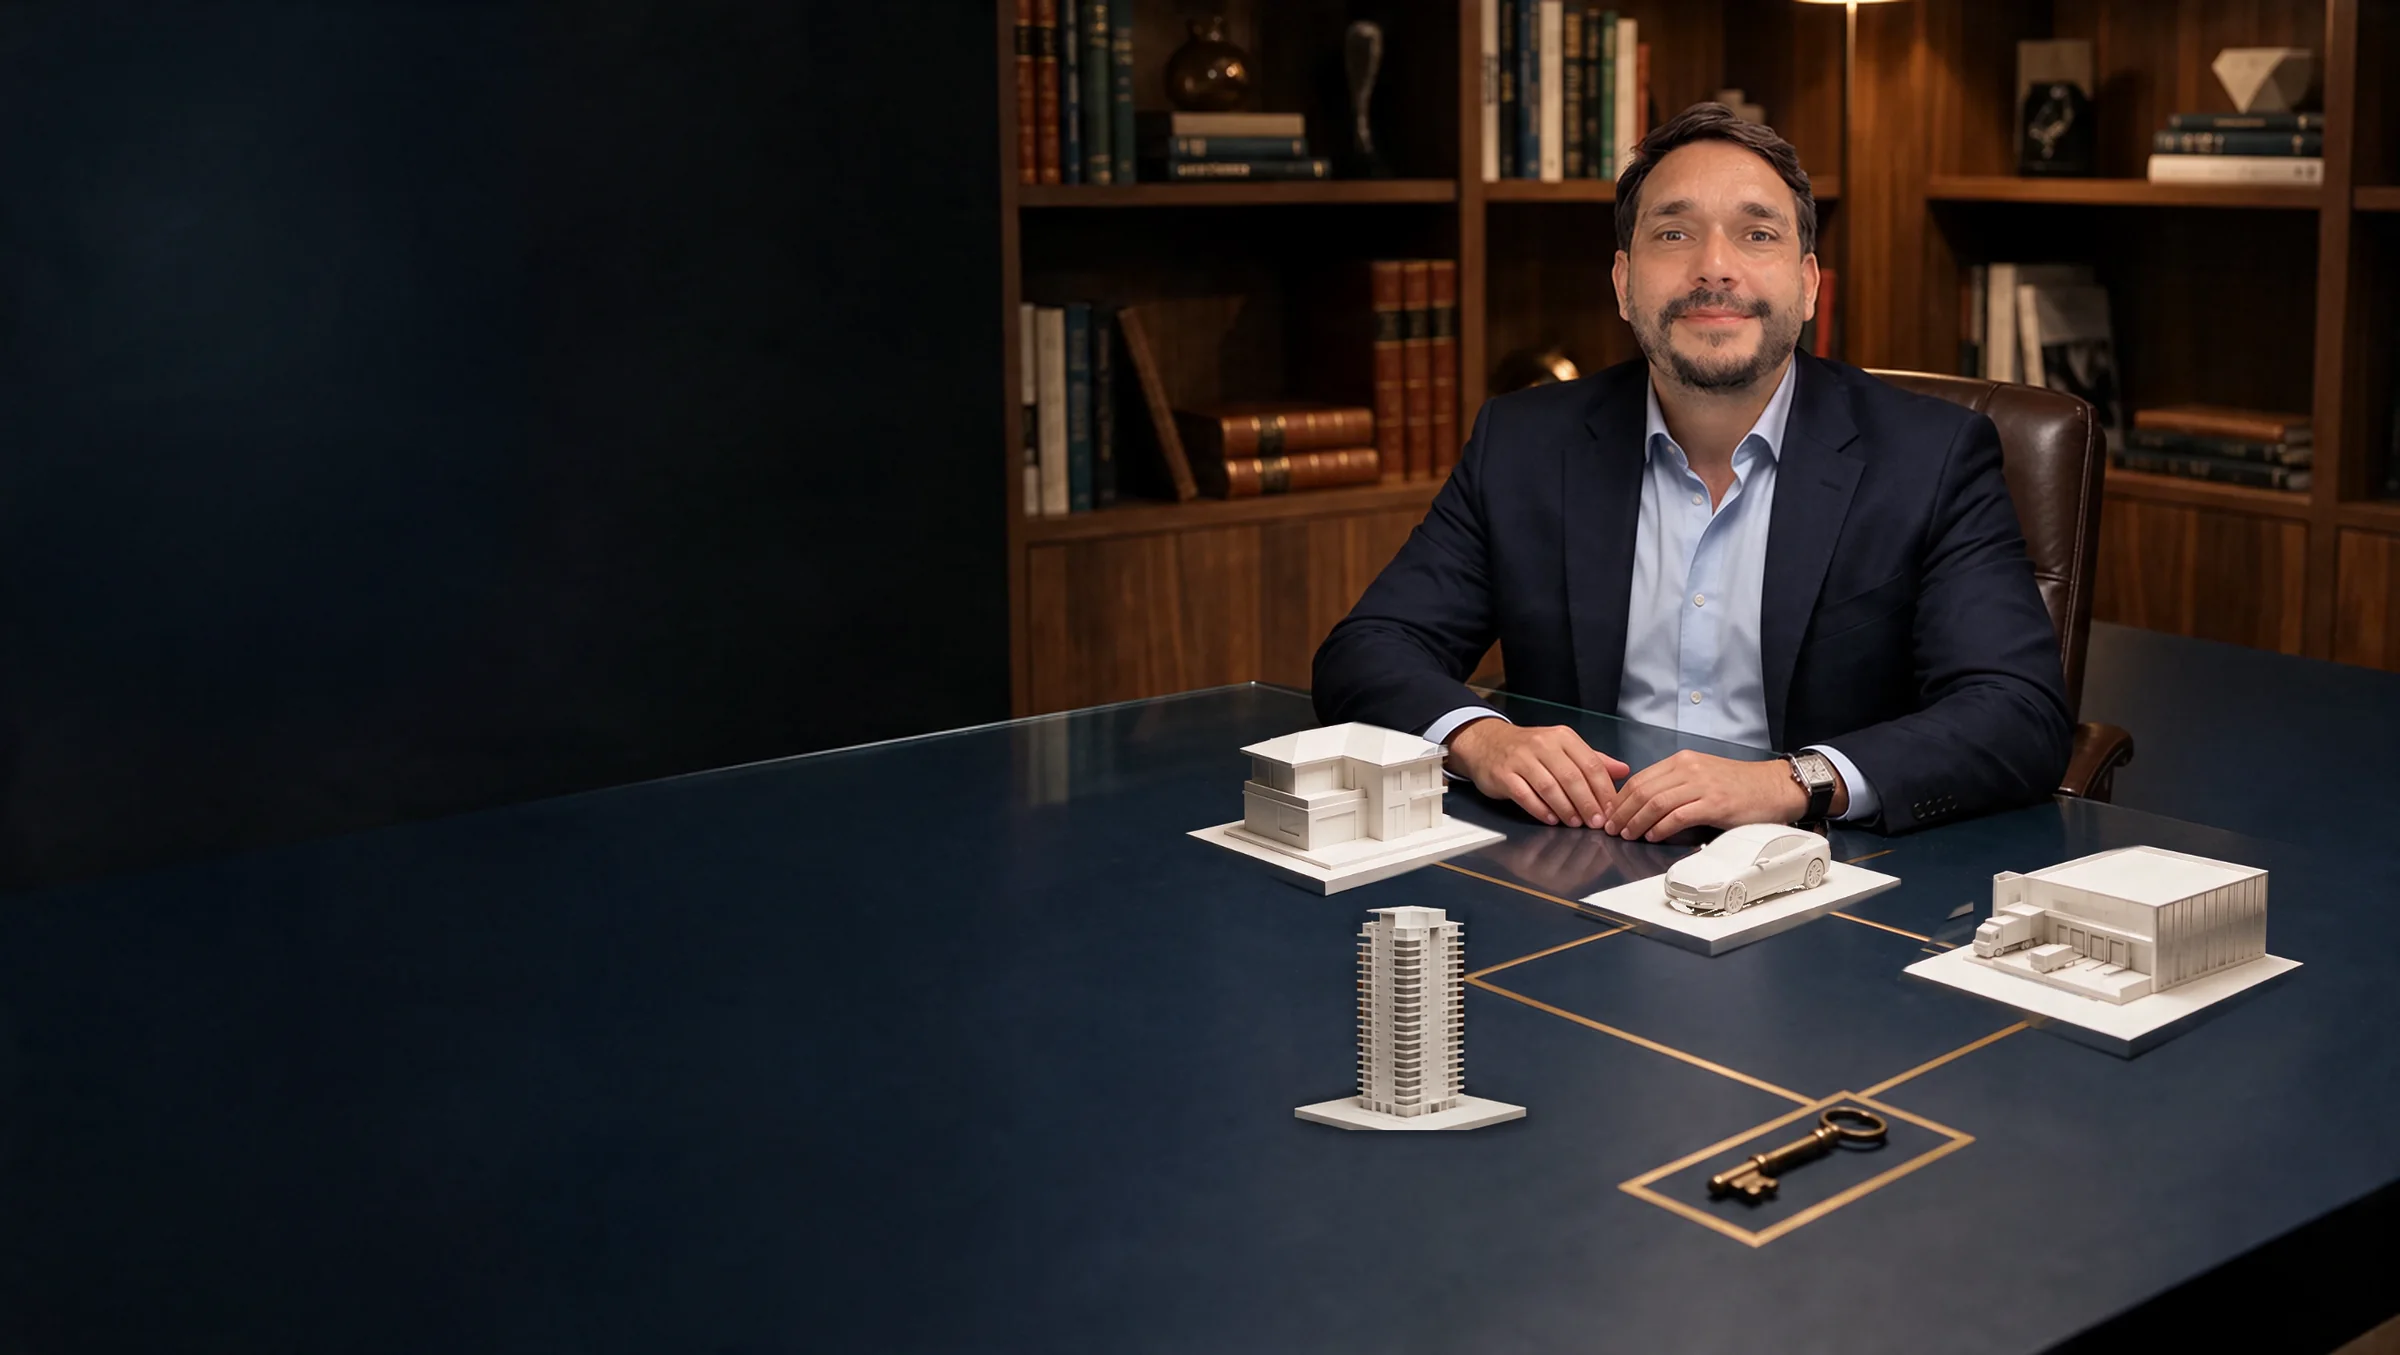
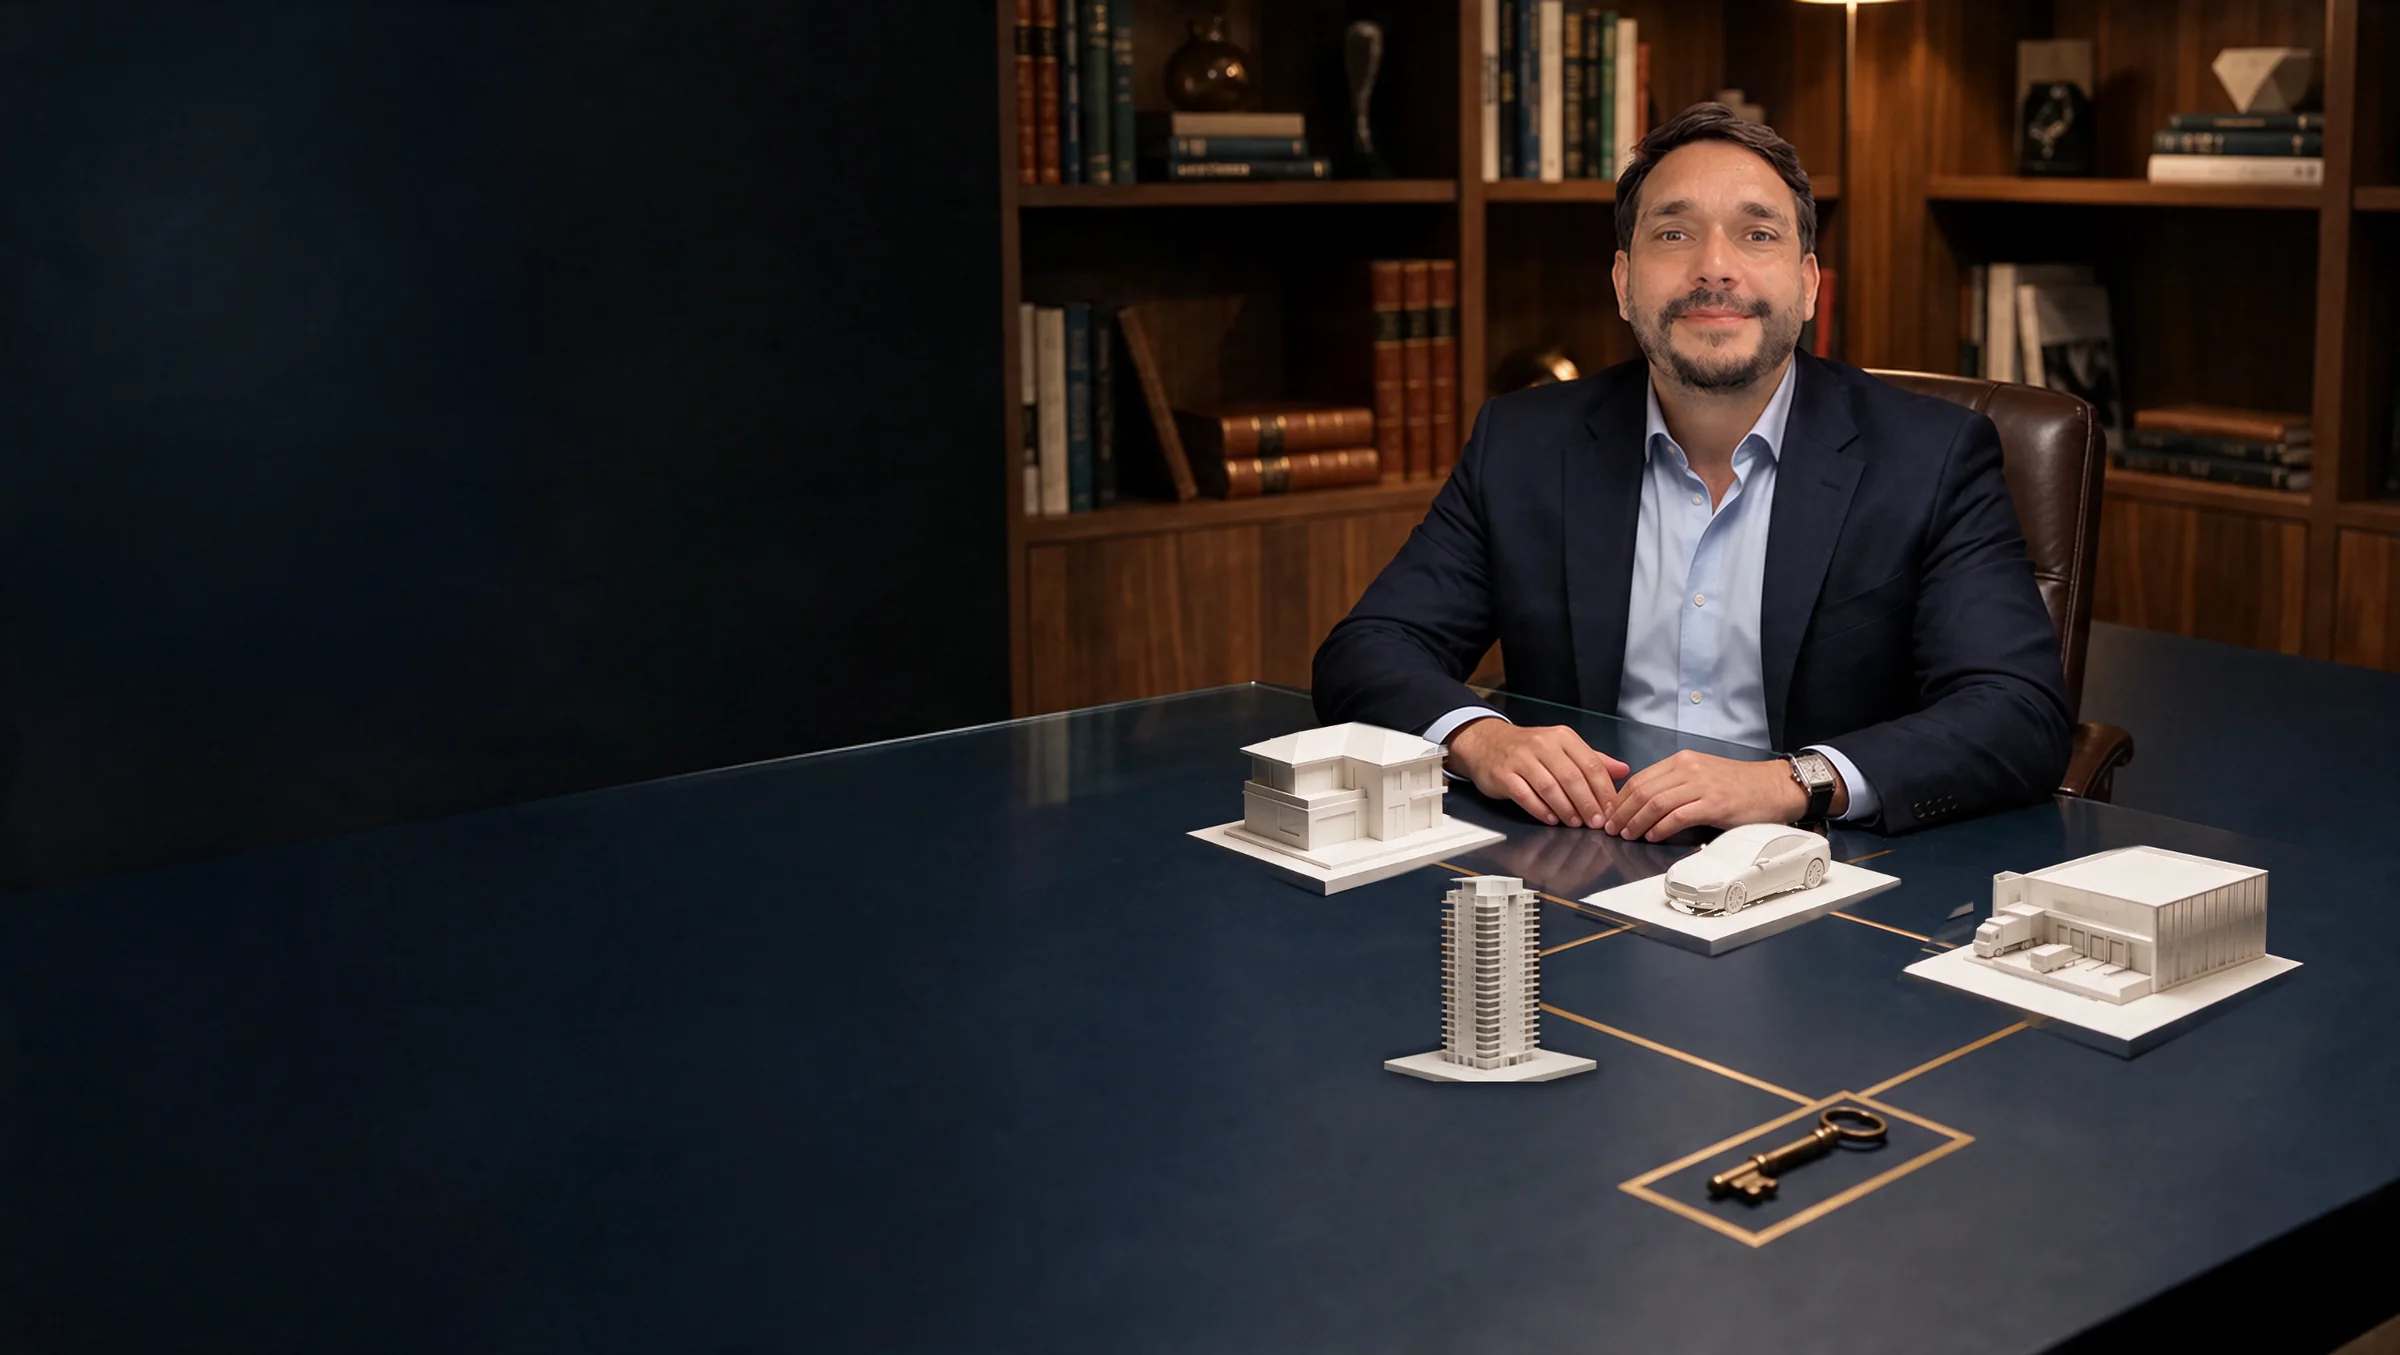
Topo: bens sobem ao passar o mouse e na apresentação automática; prédio visível em notebooks
Claude-Session: https://claude.ai/code/session_01PWsREDKrVSqGNK6L7kcVFr

Changed region(s): [[0.5312, 0.6509, 0.6875, 0.8369]]

diff --git a/app/components/CenaViva.jsx b/app/components/CenaViva.jsx
@@ -78,7 +78,8 @@ export default function CenaViva({
     let visivel = true;
     let raf = 0;
     let atual = -1;
-    let ciclo = 0;
+    let ciclo = -2;
+    let paradoDesde = 0;
 
     const mudaAtivo = (i) => { if (i !== atual) { atual = i; setAtivo(i); } };
 
@@ -96,9 +97,17 @@ export default function CenaViva({
       t.lx = (e.clientX - rc.left) / rc.width;
       t.ly = (e.clientY - rc.top) / rc.height;
       ultimoMouse = performance.now();
-      // o ponto mais próximo do cursor acende
+      // o bem sob o cursor sobe; fora deles, acende o ponto mais próximo
       let melhor = -1, dist = raio;
-      pontos.forEach((p, i) => {
+      if (pouso) {
+        const r = palco.current.getBoundingClientRect();
+        pouso.forEach((c) => {
+          const x0 = r.left + (c.x / w) * r.width, y0 = r.top + (c.y / h) * r.height;
+          const x1 = x0 + (c.w / w) * r.width, y1 = y0 + (c.h / h) * r.height;
+          if (e.clientX >= x0 && e.clientX <= x1 && e.clientY >= y0 && e.clientY <= y1) { melhor = c.ponto; dist = -1; }
+        });
+      }
+      if (dist >= 0) pontos.forEach((p, i) => {
         const [px, py] = posPonto(p);
         const d = Math.hypot(e.clientX - px, e.clientY - py);
         if (d < dist) { dist = d; melhor = i; }
@@ -135,18 +144,23 @@ export default function CenaViva({
     }, { threshold: 0.02 });
     io.observe(el);
 
-    const inicio = performance.now();
     function quadro(now) {
       raf = 0;
       if (!visivel) return;
       const parado = now - ultimoMouse > 2600 && now > introAte.current;
+      if (parado && !paradoDesde) paradoDesde = now;
+      if (!parado) paradoDesde = 0;
       if (parado && pontos.length) {
-        // apresentação automática: a luz visita cada ponto
-        const k = Math.floor((now - inicio) / 3200) % pontos.length;
-        if (k !== ciclo || atual === -1) { ciclo = k; mudaAtivo(k); }
-        const r = el.getBoundingClientRect();
-        const [px, py] = posPonto(pontos[k]);
-        t.lx = (px - r.left) / r.width; t.ly = (py - r.top) / r.height;
+        // apresentação automática: cada bem sobe, mostra a legenda e desce; depois a mesa descansa
+        const n = pontos.length, VEZ = 3200, ERGUIDO = 2600, PAUSA = 10000;
+        const tt = (now - paradoDesde) % (n * VEZ + PAUSA);
+        const k = tt < n * VEZ && tt % VEZ < ERGUIDO ? Math.floor(tt / VEZ) : -1;
+        if (k !== ciclo) { ciclo = k; mudaAtivo(k); }
+        if (k >= 0) {
+          const r = el.getBoundingClientRect();
+          const [px, py] = posPonto(pontos[k]);
+          t.lx = (px - r.left) / r.width; t.ly = (py - r.top) / r.height;
+        }
         t.x = Math.sin(now / 5200) * 0.35; t.y = Math.cos(now / 6100) * 0.25;
       }
       const e = 0.06;
@@ -183,7 +197,7 @@ export default function CenaViva({
       sec.removeEventListener('pointerleave', sair);
       ro.disconnect(); io.disconnect();
     };
-  }, [alvo, pontos, w, h, raio]);
+  }, [alvo, pontos, pouso, w, h, raio]);
 
   // vídeo em loop por cima da imagem: entra só quando já pode tocar,
   // escolhe o arquivo leve no celular e fica parado com movimento reduzido ou economia de dados
@@ -212,7 +226,7 @@ export default function CenaViva({
         {pouso && pouso.map((c, i) => {
           const pos = { left: `${(c.x / w) * 100}%`, top: `${(c.y / h) * 100}%`, width: `${(c.w / w) * 100}%`, height: `${(c.h / h) * 100}%`, '--i': i };
           return (
-            <span key={c.obj} className="cena-bem">
+            <span key={c.obj} className={`cena-bem${ativo === c.ponto ? ' erguido' : ''}`}>
               <img className="cena-bem-sombra" src={c.sombra} alt="" style={pos} />
               <img className="cena-bem-obj" src={c.obj} alt="" style={pos} />
             </span>

diff --git a/app/components/Hero.jsx b/app/components/Hero.jsx
@@ -17,7 +17,7 @@ const CAMINHOS = [
 ];
 const PONTOS = [
   { x: 1346, y: 700, rotulo: 'Imóvel', sub: 'Casa ou apartamento', caminhos: ['chave', 'base', 'casa'], halo: { y: 780, rx: 190, ry: 90 }, lado: 'esq' },
-  { x: 1411, y: 890, rotulo: 'Investimento imobiliário', sub: 'Comercial ou para locação', caminhos: ['chave', 'base'], halo: { y: 1020, rx: 120, ry: 140 }, lado: 'dir' },
+  { x: 1491, y: 860, rotulo: 'Investimento imobiliário', sub: 'Comercial ou para locação', caminhos: ['chave', 'base'], halo: { y: 990, rx: 115, ry: 130 }, lado: 'dir' },
   { x: 1743, y: 800, rotulo: 'Veículo', sub: 'Carro, moto ou frota', caminhos: ['chave', 'base'], halo: { y: 880, rx: 170, ry: 65 }, lado: 'dir' },
   { x: 2111, y: 840, rotulo: 'Para a empresa', sub: 'Cresça sem tirar dinheiro do caixa', caminhos: ['chave', 'galpao'], halo: { y: 955, rx: 220, ry: 105 }, lado: 'esq' },
 ];
@@ -27,11 +27,11 @@ const POUSO = [
   { obj: '/pouso2/casa.webp', sombra: '/pouso2/casa-sombra.webp', x: 1180, y: 712, w: 334, h: 191, ponto: 0 },
   { obj: '/pouso2/carro.webp', sombra: '/pouso2/carro-sombra.webp', x: 1567, y: 815, w: 341, h: 150, ponto: 2 },
   { obj: '/pouso2/galpao.webp', sombra: '/pouso2/galpao-sombra.webp', x: 1891, y: 840, w: 419, h: 228, ponto: 3 },
-  { obj: '/pouso2/predio.webp', sombra: '/pouso2/predio-sombra.webp', x: 1281, y: 896, w: 264, h: 258, ponto: 1 },
+  { obj: '/pouso2/predio.webp', sombra: '/pouso2/predio-sombra.webp', x: 1370, y: 866, w: 245, h: 237, ponto: 1 },
 ];
 
-// Decide antes de a página aparecer se o pouso roda (primeira visita, sem movimento reduzido).
-const DECIDE_POUSO = "(function(){try{if(matchMedia('(prefers-reduced-motion: reduce)').matches)return;if(sessionStorage.getItem('ci_pouso')==='1')return;sessionStorage.setItem('ci_pouso','1');document.documentElement.classList.add('ci-pouso')}catch(e){}})();";
+// Antes de a página aparecer: os bens viram peças soltas sobre a mesa (ci-bens) e o pouso roda na primeira visita.
+const DECIDE_POUSO = "(function(){try{document.documentElement.classList.add('ci-bens');if(matchMedia('(prefers-reduced-motion: reduce)').matches)return;if(sessionStorage.getItem('ci_pouso')==='1')return;sessionStorage.setItem('ci_pouso','1');document.documentElement.classList.add('ci-pouso')}catch(e){}})();";
 
 export default function Hero() {
   return (

diff --git a/app/globals.css b/app/globals.css
@@ -1239,3 +1239,18 @@ summary::after { color: var(--green); }
 /* telas largas: o topo ganha altura para caber o rosto e o prédio da frente */
 @media (min-width: 1500px) { .mesa { min-height: min(calc(100dvh - 72px), 54vw); } }
 .ci-pouso.ci-pouso-curto .cena-final { transition: opacity .35s var(--ease); }
+/* bens como peças soltas sobre a mesa: com JS, a imagem montada sai e os recortes ficam,
+   para cada bem poder subir quando o cursor passa ou quando a mesa se apresenta sozinha */
+.ci-bens .cena-bem img { display: block; }
+.ci-bens .cena-final { opacity: 0 !important; transition: none !important; }
+.cena-bem .cena-bem-obj, .cena-bem .cena-bem-sombra { transition: transform .5s cubic-bezier(.2, .8, .2, 1), opacity .5s cubic-bezier(.2, .8, .2, 1); }
+.cena-bem .cena-bem-sombra { transform-origin: 50% 85%; }
+.cena-bem.erguido .cena-bem-obj { transform: translateY(-7%); }
+.cena-bem.erguido .cena-bem-sombra { transform: scale(1.05); opacity: .62; }
+.ci-pouso .cena-bem.erguido .cena-bem-obj, .ci-pouso .cena-bem.erguido .cena-bem-sombra { transform: none; opacity: 1; }
+@media (prefers-reduced-motion: reduce) { .cena-bem.erguido .cena-bem-obj, .cena-bem.erguido .cena-bem-sombra { transform: none; opacity: 1; } }
+/* celular: a legenda aparece compacta, só com o nome do bem */
+@media (max-width: 960px) {
+  .mesa .cena-rotulo { display: flex; padding: 6px 10px; }
+  .mesa .cena-rotulo b { font-size: 12px; }
+}
